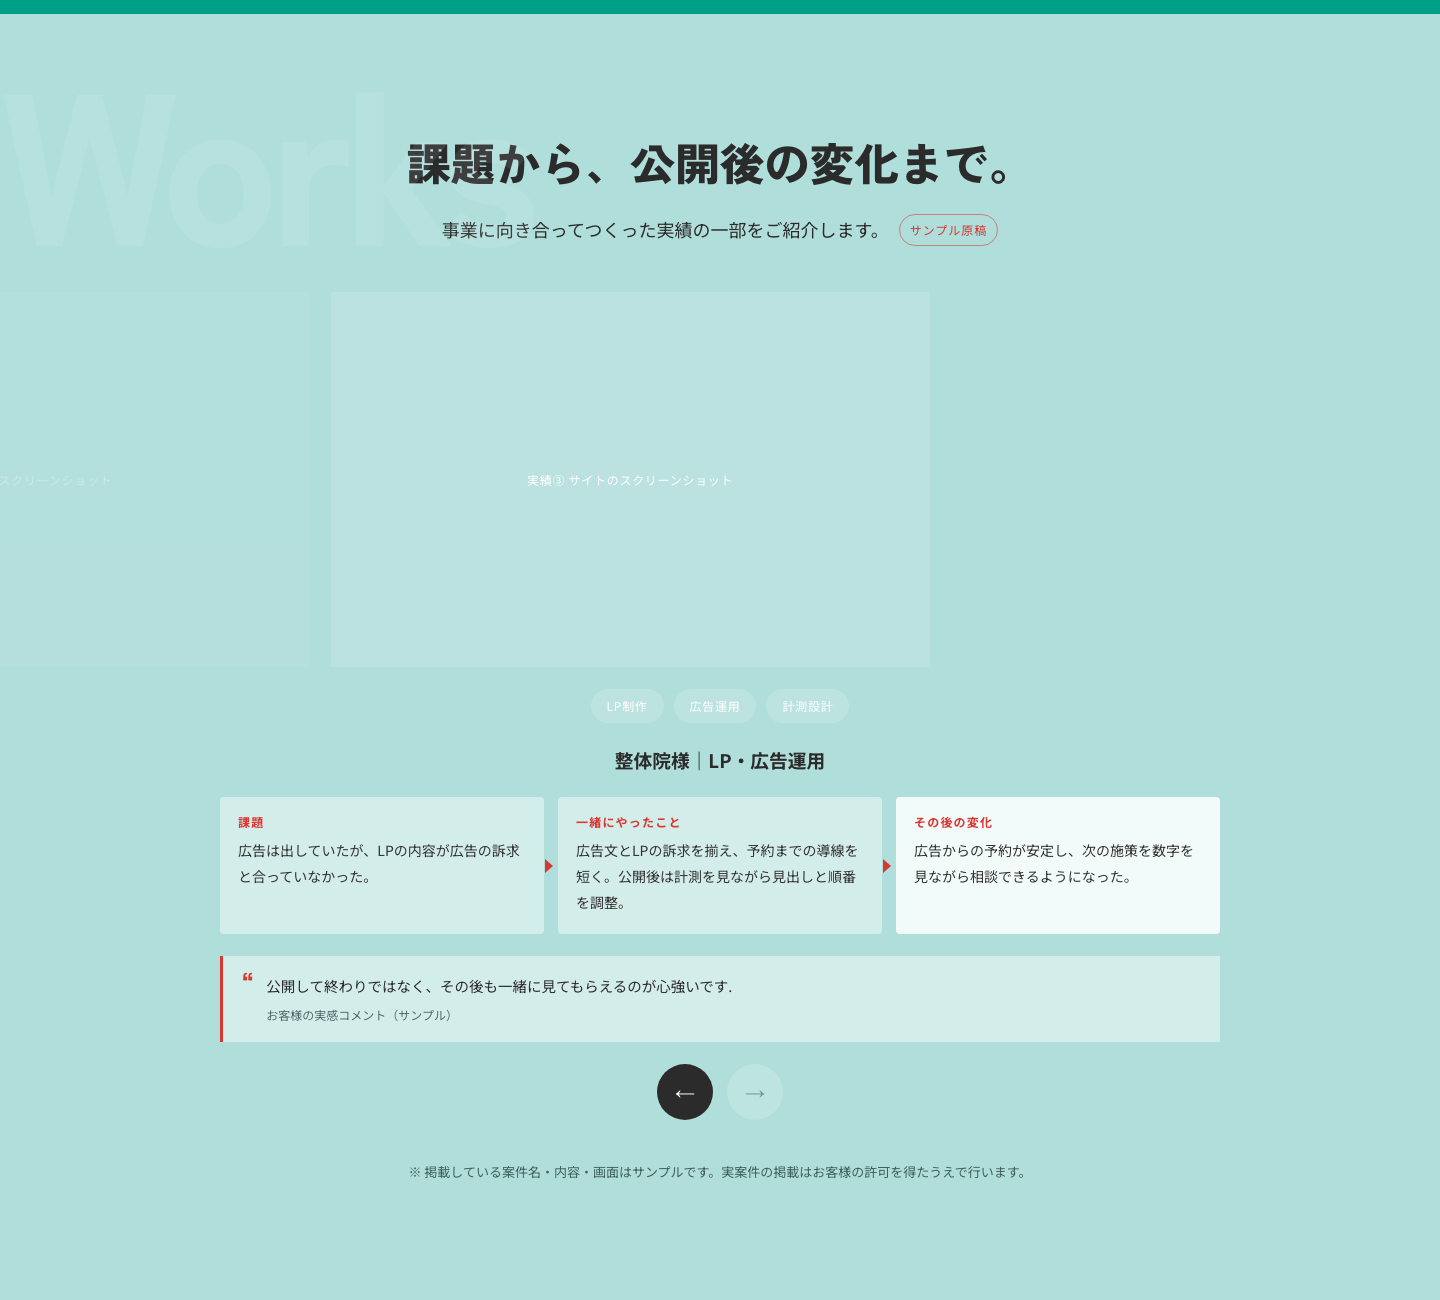
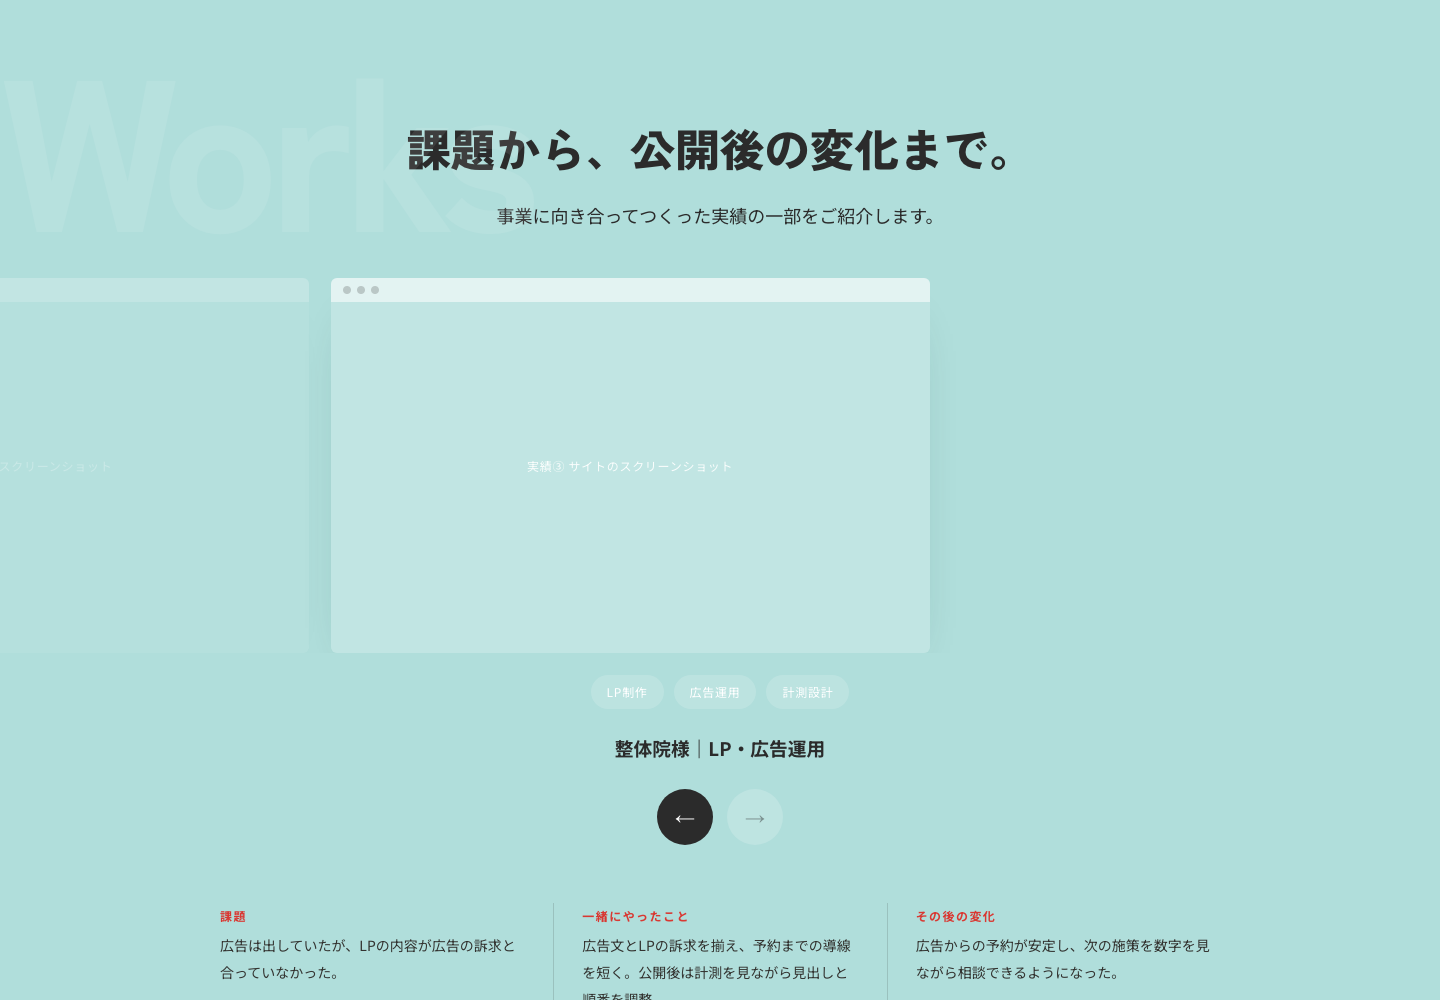
fix: 07 Works の下半分を整理（3列の文章と中央の引用、ボタンは案件名の直下、画面にブラウザ枠）
枠・矢羽・引用箱をやめ、Figma 14:303 の静けさに合わせた。DESIGN.md §6・§37

diff --git a/design/v13/index.html b/design/v13/index.html
@@ -583,8 +583,6 @@ section{position:relative;overflow:clip}
 #s7 .wk__pad{width:min(1240px,100% - 2 * clamp(20px,7vw,100.8px));margin-inline:auto;text-align:center}
 #s7 .wk__h2{font-family:var(--font-disp-alt);font-weight:900;font-size:clamp(22px,5.6vw,44.6px);line-height:1.5;letter-spacing:.223px}  /* スマホで 14 文字が 1 行に入る級数 */
 #s7 .wk__lead{margin-top:15px;font-size:clamp(15px,.5vw + 13px,18px);line-height:2;color:var(--black)}
-#s7 .wk__sample{display:inline-block;margin-left:10px;font-size:12px;letter-spacing:.08em;color:var(--accent);
-                border:1px solid rgba(217,56,50,.55);border-radius:100px;padding:3px 10px;vertical-align:2px;white-space:nowrap}
 
 /* カルーセル。スクロールスナップなのでスマホはスワイプでも動く */
 #s7 .wk__view{margin-top:45px;width:min(1440px,100%);margin-inline:auto;overflow-x:auto;overscroll-behavior-x:contain;
@@ -596,37 +594,46 @@ section{position:relative;overflow:clip}
 #s7 .wk__track::after{content:"";flex:none;width:60vw}
 #s7 .slide{flex:none;width:var(--slide-w);scroll-snap-align:start;opacity:.35;transition:opacity .4s ease}
 #s7 .slide.on{opacity:1}
-#s7 .shot{position:relative;aspect-ratio:598.86 / 374.28;background:rgba(255,255,255,.14);display:flex;align-items:center;justify-content:center;
-          overflow:hidden}
-#s7 .shot span{font-weight:500;font-size:12px;letter-spacing:.72px;color:#fff}
-#s7 .shot img{position:absolute;inset:0;width:100%;height:100%;object-fit:cover;object-position:top center}
+#s7 .shot{position:relative;aspect-ratio:598.86 / 374.28;background:rgba(255,255,255,.22);display:flex;align-items:center;justify-content:center;
+          overflow:hidden;border-radius:6px;box-shadow:0 24px 48px -32px rgba(11,61,54,.45)}
+/* 画面の上にブラウザの枠（白い帯と 3 つの点）。空の四角に見えないようにするための最小限の作り */
+#s7 .shot::before{content:"";position:absolute;inset:0 0 auto 0;height:24px;
+  background:radial-gradient(circle at 16px 50%,rgba(43,43,43,.22) 3.5px,transparent 4.5px),
+             radial-gradient(circle at 30px 50%,rgba(43,43,43,.22) 3.5px,transparent 4.5px),
+             radial-gradient(circle at 44px 50%,rgba(43,43,43,.22) 3.5px,transparent 4.5px),
+             rgba(255,255,255,.55)}
+#s7 .shot span{font-weight:500;font-size:12px;letter-spacing:.72px;color:rgba(255,255,255,.9)}
+#s7 .shot img{position:absolute;inset:24px 0 0 0;width:100%;height:calc(100% - 24px);object-fit:cover;object-position:top center}
 
 /* 案件情報。スライドに連動して入れ替わる。高さの飛びを防ぐため同じマスに重ねる */
 #s7 .wk__info{margin-top:22px;display:grid}
-#s7 .info{grid-area:1/1;display:grid;gap:22px;justify-items:center;opacity:0;visibility:hidden;transition:opacity .35s ease}
+#s7 #wkStory{margin-top:clamp(36px,4vw,52px)}
+#s7 .info{grid-area:1/1;display:grid;gap:24px;justify-items:center;opacity:0;visibility:hidden;transition:opacity .35s ease}
 #s7 .info.on{opacity:1;visibility:visible}
 #s7 .tags{display:flex;flex-wrap:wrap;gap:10px;justify-content:center}
 #s7 .tags li{background:rgba(255,255,255,.16);border-radius:100px;padding:9px 16px;font-weight:500;font-size:12px;letter-spacing:.72px;color:#fff;line-height:1.4}
 #s7 .info__name{font-weight:700;font-size:clamp(16px,1vw + 12px,18.7px);line-height:1.6;color:var(--black)}
-/* 課題 → 一緒にやったこと → その後の変化 */
-#s7 .flow{display:grid;gap:12px;width:100%;max-width:1000px;text-align:left}
-@media (min-width:768px){#s7 .flow{grid-template-columns:repeat(3,minmax(0,1fr));gap:14px}}
-#s7 .flow li{position:relative;padding:16px 18px 18px;background:rgba(255,255,255,.45);border-radius:4px}
-#s7 .flow li:nth-child(3){background:rgba(255,255,255,.85)}
-#s7 .flow b{display:block;font-size:12px;font-weight:700;letter-spacing:.1em;color:var(--accent);margin-bottom:8px}
-#s7 .flow p{font-size:14px;line-height:1.85;color:var(--ink-body)}
+/* 課題 → 一緒にやったこと → その後の変化。枠や矢印は使わず、細い縦罫で 3 列に分けた文章だけ */
+#s7 .story{display:grid;gap:18px;width:100%;max-width:1000px;text-align:left;margin:6px 0 0}
+#s7 .story > div{margin:0}
 @media (min-width:768px){
-  #s7 .flow li + li::before{content:"";position:absolute;left:-13px;top:50%;width:0;height:0;transform:translateY(-50%);
-       border-top:7px solid transparent;border-bottom:7px solid transparent;border-left:8px solid var(--accent)}
+  #s7 .story{grid-template-columns:repeat(3,minmax(0,1fr));gap:0}
+  #s7 .story > div{padding:4px 28px}
+  #s7 .story > div:first-child{padding-left:0}
+  #s7 .story > div:last-child{padding-right:0}
+  #s7 .story > div + div{border-left:1px solid rgba(43,43,43,.16)}
 }
-#s7 .voice{width:100%;max-width:1000px;display:grid;grid-template-columns:auto minmax(0,1fr);gap:12px;align-items:start;text-align:left;
-           padding:16px 18px;border-left:3px solid var(--accent);background:rgba(255,255,255,.45)}
-#s7 .voice__q{font-family:var(--font-num);font-weight:800;font-size:28px;line-height:1;color:var(--accent);margin-top:-4px}
-#s7 .voice__t{font-size:14.5px;line-height:1.9;color:var(--black)}
-#s7 .voice__t small{display:block;margin-top:4px;font-size:12px;color:#4c6b68}
+@media (max-width:767px){#s7 .story > div + div{border-top:1px solid rgba(43,43,43,.16);padding-top:18px}}
+#s7 .story dt{font-size:12px;font-weight:700;letter-spacing:.12em;color:var(--accent);margin-bottom:8px}
+#s7 .story dd{margin:0;font-size:14px;line-height:1.9;color:var(--ink-body)}
+/* お客様の声。箱に入れず、中央に引用符と一文だけ */
+#s7 .voice{max-width:760px;margin-top:6px;text-align:center;font-family:var(--font-disp);font-weight:700;
+           font-size:clamp(15px,.4vw + 13px,17px);line-height:1.9;color:var(--black)}
+#s7 .voice::before{content:"\201C";display:block;font-family:var(--font-num);font-weight:800;font-size:44px;line-height:.55;color:var(--accent);margin-bottom:12px}
+#s7 .voice small{display:block;margin-top:8px;font-family:var(--font-jp);font-weight:400;font-size:12px;color:#3f5f5c}
 
 /* 前後ボタン。Figma 14:336（56px・gap14・現在地は黒、無効はうすい白） */
-#s7 .wk__nav{margin-top:22px;display:flex;gap:14px;justify-content:center}
+#s7 .wk__nav{margin-top:26px;display:flex;gap:14px;justify-content:center}
 #s7 .wk__btn{width:56px;height:56px;border:0;border-radius:50%;background:var(--black);color:#fff;font-size:20px;line-height:1;cursor:pointer;
              display:flex;align-items:center;justify-content:center;transition:background .3s,color .3s,transform .2s}
 #s7 .wk__btn:disabled{background:rgba(255,255,255,.18);color:rgba(43,43,43,.45);cursor:default}
@@ -637,8 +644,7 @@ section{position:relative;overflow:clip}
 @media (max-width:767px){
   #s7{--slide-w:82vw;--off:20px;--gap:14px}
   #s7 .wk__view{margin-top:32px}
-  #s7 .wk__sample{display:block;width:max-content;margin:10px auto 0}
-}
+  }
 /* =========================================================================
    08 Price（料金の目安）— 面は白 #fcfcfc（§3）。仮原稿は発注者共有のもの（§38）[2026-09-08]
    構成: 見出し → 制作費用の目安（3枚） → 公開後の費用（4列） → 費用の組み合わせ例（CASE 3枚・生成り） → ご予算について（墨の帯）
@@ -1136,7 +1142,7 @@ section{position:relative;overflow:clip}
 
   <div class="wk__pad">
     <h2 class="wk__h2 rv" style="--i:1">課題から、公開後の変化まで。</h2>
-    <p class="wk__lead rv" style="--i:2">事業に向き合ってつくった実績の一部をご紹介します。<span class="wk__sample">サンプル原稿</span></p>
+    <p class="wk__lead rv" style="--i:2">事業に向き合ってつくった実績の一部をご紹介します。</p>
   </div>
 
   <div class="wk__view rv" id="wkView" style="--i:2" tabindex="0" role="group" aria-label="制作実績（左右にスクロールできます）">
@@ -1152,37 +1158,45 @@ section{position:relative;overflow:clip}
       <div class="info on">
         <ul class="tags" aria-label="担当領域"><li>ディレクション</li><li>デザイン</li><li>WordPress</li><li>コーディング</li></ul>
         <p class="info__name">地域工務店様｜コーポレートサイト</p>
-        <ol class="flow">
-          <li><b>課題</b><p>紹介以外の問い合わせがほとんどなく、サイトは会社案内の域を出ていなかった。</p></li>
-          <li><b>一緒にやったこと</b><p>施工事例の見せ方と、はじめて相談する人向けの導線を設計。原稿からデザイン、WordPress実装まで一貫して制作。</p></li>
-          <li><b>その後の変化</b><p>施工事例を見てからの問い合わせが入るようになり、初回の相談で話が早くなった。</p></li>
-        </ol>
-        <div class="voice"><span class="voice__q" aria-hidden="true">“</span><p class="voice__t">自分たちでは当たり前だと思っていた強みを、言葉にしてもらえました。<small>お客様の実感コメント（サンプル）</small></p></div>
       </div>
       <div class="info">
         <ul class="tags" aria-label="担当領域"><li>事業整理</li><li>構成・原稿</li><li>デザイン</li></ul>
         <p class="info__name">税理士事務所様｜サービスサイト</p>
-        <ol class="flow">
-          <li><b>課題</b><p>サービスの数が多く、何を得意としているのかが伝わっていなかった。</p></li>
-          <li><b>一緒にやったこと</b><p>対象とするお客様を絞り、料金と進め方を先に見せる構成に。原稿を一から書き直した。</p></li>
-          <li><b>その後の変化</b><p>「料金を見て相談しました」という問い合わせが中心になり、条件の合わない相談が減った。</p></li>
-        </ol>
-        <div class="voice"><span class="voice__q" aria-hidden="true">“</span><p class="voice__t">何を載せないかを一緒に決められたのが、いちばん助かりました。<small>お客様の実感コメント（サンプル）</small></p></div>
       </div>
       <div class="info">
         <ul class="tags" aria-label="担当領域"><li>LP制作</li><li>広告運用</li><li>計測設計</li></ul>
         <p class="info__name">整体院様｜LP・広告運用</p>
-        <ol class="flow">
-          <li><b>課題</b><p>広告は出していたが、LPの内容が広告の訴求と合っていなかった。</p></li>
-          <li><b>一緒にやったこと</b><p>広告文とLPの訴求を揃え、予約までの導線を短く。公開後は計測を見ながら見出しと順番を調整。</p></li>
-          <li><b>その後の変化</b><p>広告からの予約が安定し、次の施策を数字を見ながら相談できるようになった。</p></li>
-        </ol>
-        <div class="voice"><span class="voice__q" aria-hidden="true">“</span><p class="voice__t">公開して終わりではなく、その後も一緒に見てもらえるのが心強いです。<small>お客様の実感コメント（サンプル）</small></p></div>
       </div>
     </div>
     <div class="wk__nav">
       <button class="wk__btn" type="button" id="wkPrev" aria-label="前の実績" disabled><span aria-hidden="true">←</span></button>
       <button class="wk__btn" type="button" id="wkNext" aria-label="次の実績"><span aria-hidden="true">→</span></button>
+    </div>
+    <div class="wk__info" id="wkStory">
+      <div class="info on">
+        <dl class="story">
+          <div><dt>課題</dt><dd>紹介以外の問い合わせがほとんどなく、サイトは会社案内の域を出ていなかった。</dd></div>
+          <div><dt>一緒にやったこと</dt><dd>施工事例の見せ方と、はじめて相談する人向けの導線を設計。原稿からデザイン、WordPress実装まで一貫して制作。</dd></div>
+          <div><dt>その後の変化</dt><dd>施工事例を見てからの問い合わせが入るようになり、初回の相談で話が早くなった。</dd></div>
+        </dl>
+        <p class="voice">自分たちでは当たり前だと思っていた強みを、言葉にしてもらえました。<small>お客様の実感コメント（サンプル）</small></p>
+      </div>
+      <div class="info">
+        <dl class="story">
+          <div><dt>課題</dt><dd>サービスの数が多く、何を得意としているのかが伝わっていなかった。</dd></div>
+          <div><dt>一緒にやったこと</dt><dd>対象とするお客様を絞り、料金と進め方を先に見せる構成に。原稿を一から書き直した。</dd></div>
+          <div><dt>その後の変化</dt><dd>「料金を見て相談しました」という問い合わせが中心になり、条件の合わない相談が減った。</dd></div>
+        </dl>
+        <p class="voice">何を載せないかを一緒に決められたのが、いちばん助かりました。<small>お客様の実感コメント（サンプル）</small></p>
+      </div>
+      <div class="info">
+        <dl class="story">
+          <div><dt>課題</dt><dd>広告は出していたが、LPの内容が広告の訴求と合っていなかった。</dd></div>
+          <div><dt>一緒にやったこと</dt><dd>広告文とLPの訴求を揃え、予約までの導線を短く。公開後は計測を見ながら見出しと順番を調整。</dd></div>
+          <div><dt>その後の変化</dt><dd>広告からの予約が安定し、次の施策を数字を見ながら相談できるようになった。</dd></div>
+        </dl>
+        <p class="voice">公開して終わりではなく、その後も一緒に見てもらえるのが心強いです。<small>お客様の実感コメント（サンプル）</small></p>
+      </div>
     </div>
     <p class="wk__note rv" style="--i:0">※ 掲載している案件名・内容・画面はサンプルです。実案件の掲載はお客様の許可を得たうえで行います。</p>
   </div>
@@ -1527,7 +1541,7 @@ section{position:relative;overflow:clip}
   var view = document.getElementById('wkView');
   if (!view) return;
   var slides = [].slice.call(view.querySelectorAll('.slide'));
-  var infos  = [].slice.call(document.querySelectorAll('#wkInfo .info'));
+  var infos  = [].slice.call(document.querySelectorAll('#wkInfo .info, #wkStory .info'));
   var prev = document.getElementById('wkPrev'), next = document.getElementById('wkNext');
   var reduce = window.matchMedia('(prefers-reduced-motion: reduce)').matches;
   var cur = -1;
@@ -1538,7 +1552,7 @@ section{position:relative;overflow:clip}
     if (i === cur) return;
     cur = i;
     slides.forEach(function (s, k) { s.classList.toggle('on', k === i); });
-    infos.forEach(function (s, k) { s.classList.toggle('on', k === i); });
+    infos.forEach(function (s) { s.classList.toggle('on', [].indexOf.call(s.parentNode.children, s) === i); });
     prev.disabled = i <= 0;
     next.disabled = i >= slides.length - 1;
   }

diff --git a/docs/DESIGN.md b/docs/DESIGN.md
@@ -129,6 +129,10 @@ Claude Design に渡す入力はこのファイル1本（＋STRUCTURE.md・CONTE
 
 再出力のたびにここへ追記する（日付＋指示内容）。
 
+- 2026-09-08（5回目）: 発注者「実績（Opus 5 が組んだ版）のデザインが駄目なので調整してほしい」。
+  §07 の下半分を作り直した。枠と矢羽の 3 箱・赤罫の引用箱をやめ、細い縦罫で分けた 3 列の文章と、中央の引用符＋一文に。
+  前後ボタンは Figma どおり案件名の直下へ。画面のプレースホルダーにブラウザ枠（白い帯と 3 点）。「サンプル原稿」の丸タグを削除（§37 追記）
+
 - 2026-09-08（4回目）: 発注者「次は料金プランを下記の原稿を元に、現在のデザインを参考する程度にしてデザインを作成してほしい」。
   §08 料金の目安 を `design/v13/index.html` に `#s8` として新設（§38）。仮原稿は発注者共有。Figma 62:361 は参考程度に留め、構成は原稿に合わせて組み直した
 
@@ -1567,6 +1571,21 @@ MV：見出しの下に赤い帯が伸びる＋実績の帯が流れる／Proble
 
 1440×1300 と 390×844。カルーセルは 0 → 1 → 2 → 1 と往復し、ボタンの無効状態も切り替わることを確認。
 `design/v13/screenshots/pc-s7.png`（1件目）、`pc-s7-case3.png`（3件目）、`sp-s7.png`、`sp-s7b.png`
+
+### 調整（発注者FB 2026-09-08「デザインが駄目」）
+
+問題は下半分にあった。Figma 14:303 は画面・タグ・案件名・前後ボタンだけの静かな構成なのに、その下に
+「課題→やったこと→変化」の 3 箱（白半透明＋赤ラベル＋矢羽）と赤罫の引用箱を足していたため、上の静けさと噛み合わずうるさく見えていた。
+
+直した点。
+
+- 3 箱と矢羽をやめ、**細い縦罫（`rgba(43,43,43,.16)`）で分けた 3 列の文章**にした。ラベルは赤 12px、本文 14px。スマホは横罫で縦に並ぶ
+- 引用箱をやめ、**中央に赤い引用符（Manrope 44px）と一文（Zen Kaku 700）**だけ。出典は 12px で下に
+- **前後ボタンを案件名の直下へ**（Figma と同じ順序）。物語の 3 列と引用はその下に `#wkStory` として分け、JS はどちらの塊も同じ番号の `.info` を出す
+- 画面のプレースホルダーに**ブラウザ枠**（上に 24px の白い帯と 3 つの点、角丸 6px、薄い落ち影）。空の四角に見えないため
+- リード横の「サンプル原稿」の丸タグを削除。注記は最下段に残す
+
+確認: 1440×1000 と 390×844、3 件目まで送ってボタンの無効が切り替わることを確認。`pc-s7.png`、`pc-s7-case3.png`、`sp-s7.png`
 
 ### 残っている検討事項
 
